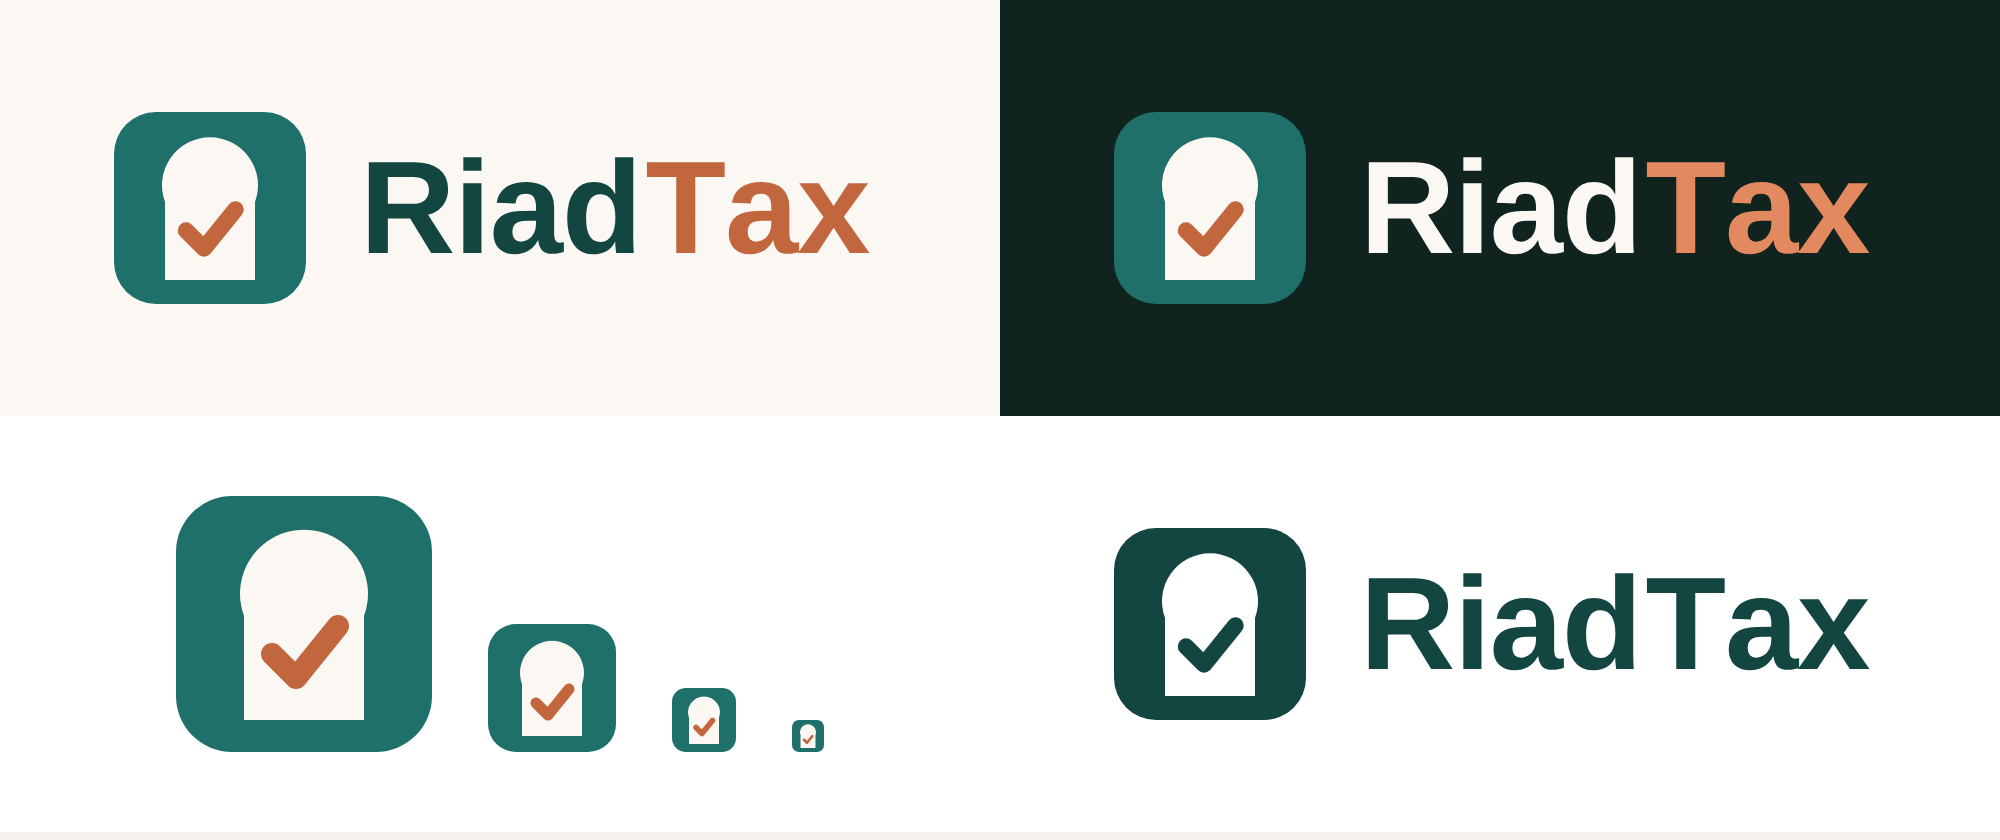
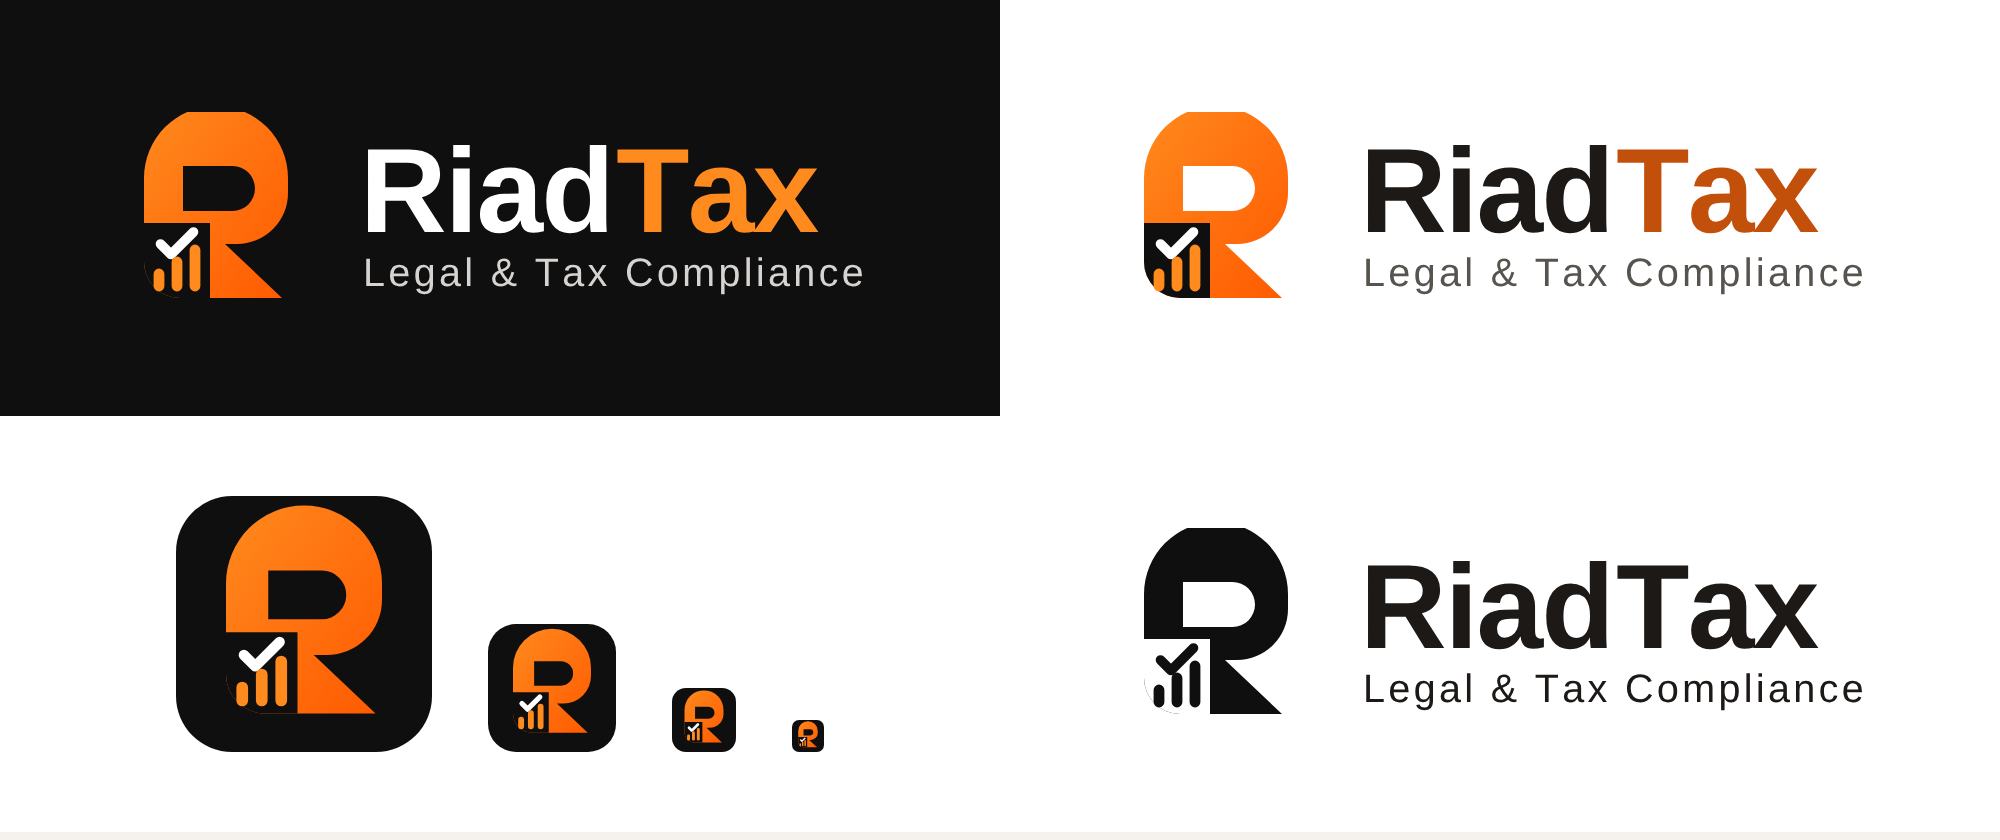
Brand: RiadTax identity (orange R-door mark, palette, name across app, emails and docs)
- brand/: regenerate the logo kit from the reference (orange gradient mark on dark,
  white/orange wordmark, 'Legal & Tax Compliance' tagline), light/dark/mono lockups,
  icon and PNG exports; README documents colours and usage
- web: orange palette tokens, inline Logo component in the auth header and app
  sidebar, favicon/app icons in public/, page titles and metadata
- name: appName in fr/en messages, invitation emails, MAIL_FROM default, README,
  CLAUDE.md and Phase 2 plan now say RiadTax

Internal identifiers (cookie names, CSRF header value, package names, DB names)
are unchanged.

Claude-Session: https://claude.ai/code/session_01LwjNavFWHvPo127HCENtBX

diff --git a/apps/web/components/logo.tsx b/apps/web/components/logo.tsx
@@ -1,0 +1,38 @@
+import { useId } from 'react';
+
+/**
+ * RiadTax mark and wordmark, inline so it follows the brand palette without an image request.
+ * Source of truth for the shapes: brand/generate.py — keep both in sync.
+ */
+export function Logo({ tone = 'light', size = 32, wordmark = true, className }: { tone?: 'light' | 'dark'; size?: number; wordmark?: boolean; className?: string }) {
+  const id = useId();
+  const onDark = tone === 'dark';
+  const riad = onDark ? '#ffffff' : '#1c1917';
+  const tax = onDark ? '#ff8a1e' : '#c2500a';
+  return (
+    <span className={`inline-flex items-center gap-2 ${className ?? ''}`}>
+      <svg width={size} height={size} viewBox="0 0 64 64" aria-hidden="true" focusable="false">
+        <defs>
+          <linearGradient id={id} x1="0" y1="0" x2="1" y2="1">
+            <stop offset="0" stopColor="#ff8a1e" />
+            <stop offset="1" stopColor="#ff5a00" />
+          </linearGradient>
+        </defs>
+        <path
+          d="M8 22 A24 24 0 0 1 56 22 V27 A17 17 0 0 1 39 44 H35 L54 62 H20 A12 12 0 0 1 8 50 Z M21 18 V33 H37.5 A7.5 7.5 0 0 0 37.5 18 Z"
+          fill={`url(#${id})`}
+          fillRule="evenodd"
+        />
+        <path d="M8 50 V37 H30 V62 H20 A12 12 0 0 1 8 50 Z" fill={onDark ? '#0f0f10' : '#1c1917'} />
+        <path d="M13.5 44 L17 47.5 L24.5 40" fill="none" stroke="#ffffff" strokeWidth="3.2" strokeLinecap="round" strokeLinejoin="round" />
+        <path d="M13 58 V54 M19 58 V50 M25 58 V46" fill="none" stroke="#ff8a1e" strokeWidth="3.6" strokeLinecap="round" />
+      </svg>
+      {wordmark && (
+        <span className="text-lg font-bold leading-none tracking-tight" style={{ color: riad }}>
+          Riad
+          <span style={{ color: tax }}>Tax</span>
+        </span>
+      )}
+    </span>
+  );
+}

diff --git a/apps/web/components/app-shell.tsx b/apps/web/components/app-shell.tsx
@@ -6,6 +6,7 @@ import { usePathname } from 'next/navigation';
 import type { ReactNode } from 'react';
 import { SessionProvider, useSession } from '../lib/session';
 import { LocaleSwitch } from './locale-switch';
+import { Logo } from './logo';
 
 function Loading() {
   const t = useTranslations('common');
@@ -37,7 +38,9 @@ function Frame({ children }: { children: ReactNode }) {
       <aside className="border-b border-stone-200 bg-white md:min-h-dvh md:border-b-0 md:border-r">
         <div className="flex items-center justify-between px-4 py-3 md:block md:px-5 md:py-5">
           <div>
-            <p className="text-lg font-semibold text-brand-700">{t('common.appName')}</p>
+            <Link href="/" aria-label={t('common.appName')} className="inline-block rounded-md focus-visible:outline-2 focus-visible:outline-offset-2 focus-visible:outline-brand-600">
+              <Logo size={30} />
+            </Link>
             <p className="max-w-[12rem] truncate text-xs text-stone-500">{me.account.companyName}</p>
           </div>
           <div className="md:hidden">

diff --git a/apps/web/app/(auth)/layout.tsx b/apps/web/app/(auth)/layout.tsx
@@ -1,6 +1,7 @@
 import type { ReactNode } from 'react';
 import { getTranslations } from 'next-intl/server';
 import { LocaleSwitch } from '../../components/locale-switch';
+import { Logo } from '../../components/logo';
 
 export default async function AuthLayout({ children }: { children: ReactNode }) {
   const t = await getTranslations('common');
@@ -8,8 +9,9 @@ export default async function AuthLayout({ children }: { children: ReactNode }) 
     <main className="mx-auto flex min-h-dvh w-full max-w-md flex-col px-4 py-6">
       <div className="mb-8 flex items-center justify-between">
         <div>
-          <p className="text-xl font-semibold text-brand-700">{t('appName')}</p>
-          <p className="text-sm text-stone-500">{t('tagline')}</p>
+          <Logo size={36} />
+          <span className="sr-only">{t('appName')}</span>
+          <p className="mt-1 text-sm text-stone-500">{t('tagline')}</p>
         </div>
         <LocaleSwitch />
       </div>

diff --git a/apps/api/src/invitations/invitations.service.ts b/apps/api/src/invitations/invitations.service.ts
@@ -135,8 +135,8 @@ export class InvitationsService {
     return {
       subject: `Invitation — ${companyName}`,
       text:
-        `${companyName} vous invite à rejoindre Dari en tant que ${label.fr}.\nPour accepter et choisir votre mot de passe :\n\n${link}\n\nCe lien expire dans ${days} jours.\n\n` +
-        `${companyName} invited you to join Dari as ${label.en}.\nTo accept and choose your password:\n\n${link}\n\nThis link expires in ${days} days.`,
+        `${companyName} vous invite à rejoindre RiadTax en tant que ${label.fr}.\nPour accepter et choisir votre mot de passe :\n\n${link}\n\nCe lien expire dans ${days} jours.\n\n` +
+        `${companyName} invited you to join RiadTax as ${label.en}.\nTo accept and choose your password:\n\n${link}\n\nThis link expires in ${days} days.`,
     };
   }
 }

diff --git a/apps/api/src/mail/mail.service.spec.ts b/apps/api/src/mail/mail.service.spec.ts
@@ -5,10 +5,10 @@ import { MailDriver } from './mail.types';
 describe('MailService', () => {
   it('sends through the driver with the configured sender', async () => {
     const driver: MailDriver = { send: jest.fn().mockResolvedValue(undefined) };
-    const service = new MailService(driver, { MAIL_FROM: 'Dari <no-reply@dari.test>' } as AppConfig);
+    const service = new MailService(driver, { MAIL_FROM: 'RiadTax <no-reply@riadtax.test>' } as AppConfig);
 
     await service.send({ to: 'a@b.test', subject: 'Hi', text: 'Body' });
 
-    expect(driver.send).toHaveBeenCalledWith({ to: 'a@b.test', subject: 'Hi', text: 'Body', from: 'Dari <no-reply@dari.test>' });
+    expect(driver.send).toHaveBeenCalledWith({ to: 'a@b.test', subject: 'Hi', text: 'Body', from: 'RiadTax <no-reply@riadtax.test>' });
   });
 });

diff --git a/apps/web/app/layout.tsx b/apps/web/app/layout.tsx
@@ -3,7 +3,11 @@ import { NextIntlClientProvider } from 'next-intl';
 import { getLocale } from 'next-intl/server';
 import './globals.css';
 
-export const metadata = { title: 'Dari', description: 'Short-term rental compliance and tax — Morocco' };
+export const metadata = {
+  title: { default: 'RiadTax', template: '%s · RiadTax' },
+  description: 'Legal & tax compliance for short-term rentals — Morocco',
+  icons: { icon: [{ url: '/icon.svg', type: 'image/svg+xml' }, { url: '/favicon.ico', sizes: '48x48' }], apple: '/apple-icon.png' },
+};
 
 export default async function RootLayout({ children }: { children: ReactNode }) {
   const locale = await getLocale();

diff --git a/apps/api/src/config/env.ts b/apps/api/src/config/env.ts
@@ -27,7 +27,7 @@ const envSchema = z
     /** console / file are development and test drivers: they expose single-use links. */
     MAIL_DRIVER: z.enum(['console', 'file']).default('console'),
     MAIL_FILE_DIR: z.string().default('.mail'),
-    MAIL_FROM: z.string().min(3).default('Dari <no-reply@localhost>'),
+    MAIL_FROM: z.string().min(3).default('RiadTax <no-reply@localhost>'),
     /** Tests turn this off so many requests from one IP do not trip the limits; refused off in production. */
     RATE_LIMIT_ENABLED: z.enum(['true', 'false']).default('true').transform((v) => v === 'true'),
     THROTTLE_TTL_MS: z.coerce.number().int().positive().default(60_000),

diff --git a/apps/web/app/globals.css b/apps/web/app/globals.css
@@ -1,12 +1,14 @@
 @import "tailwindcss";
 
 @theme {
-  --color-brand-50: #eef7f6;
-  --color-brand-100: #d5ecea;
-  --color-brand-600: #1f6f6a;
-  --color-brand-700: #185955;
-  --color-brand-800: #134541;
-  --color-clay-500: #c2663d;
+  /* RiadTax palette — see brand/README.md */
+  --color-brand-50: #fff5eb;
+  --color-brand-100: #ffe3c4;
+  --color-brand-500: #ff8a1e;
+  --color-brand-600: #c2500a;
+  --color-brand-700: #9a3c06;
+  --color-brand-800: #7c3006;
+  --color-night: #0f0f10;
   --font-sans: ui-sans-serif, system-ui, -apple-system, "Segoe UI", Roboto, "Helvetica Neue", Arial, sans-serif;
 }
 

diff --git a/brand/generate.py b/brand/generate.py
@@ -1,72 +1,86 @@
 """Generates the RiadTax logo files. Run: python3 generate.py (needs fonttools).
 
-Concept: a Moroccan horseshoe arch (the riad door) holding a check mark: "your property is in order".
-The wordmark is converted to outlines (Liberation Sans Bold, SIL Open Font License) so it renders
-the same everywhere, without depending on installed fonts.
+Concept: an orange "R" shaped like a riad door (horseshoe arch on top, shield base) that holds a check
+mark and three rising bars: "your property is in order, and the numbers add up".
+Wordmark: "Riad" white (or near-black on light backgrounds) + "Tax" orange, tagline "Legal & Tax Compliance".
+The text is converted to outlines (Liberation Sans Bold, SIL Open Font License) so it renders the same
+everywhere, without depending on installed fonts.
 """
 from fontTools.ttLib import TTFont
 from fontTools.pens.svgPathPen import SVGPathPen
 from fontTools.pens.transformPen import TransformPen
 
-TEAL = '#1f6f6a'      # brand-600 in the web app
-TEAL_DARK = '#134541' # brand-800
-CLAY = '#c2663d'      # clay-500
-CLAY_LIGHT = '#e3895f'
-CREAM = '#fbf7f2'
-NIGHT = '#10231f'
+ORANGE = '#ff8a1e'       # logo orange (brand-500 in the web app)
+ORANGE_DEEP = '#ff5a00'  # gradient end
+ORANGE_DARK = '#c2500a'  # brand-600: buttons, links (4.7:1 on white)
+NIGHT = '#0f0f10'        # dark background / wordmark on light
+INK = '#1c1917'          # stone-900 in the web app
+WHITE = '#ffffff'
 
-FONT = TTFont('/usr/share/fonts/truetype/liberation/LiberationSans-Bold.ttf')
-GLYPHS = FONT.getGlyphSet()
-CMAP = FONT.getBestCmap()
-UPM = FONT['head'].unitsPerEm
-KERN = None
+BOLD = TTFont('/usr/share/fonts/truetype/liberation/LiberationSans-Bold.ttf')
+REG = TTFont('/usr/share/fonts/truetype/liberation/LiberationSans-Regular.ttf')
 
 
-def text_path(text: str, x: float, baseline: float, size: float, tracking: float = 0):
+def text_path(text: str, x: float, baseline: float, size: float, tracking: float = 0, font=BOLD):
     """SVG path data for `text`, and the x where it ends."""
-    scale = size / UPM
+    glyphs, cmap, upm = font.getGlyphSet(), font.getBestCmap(), font['head'].unitsPerEm
+    scale = size / upm
     parts = []
     for ch in text:
-        name = CMAP[ord(ch)]
-        pen = SVGPathPen(GLYPHS)
-        GLYPHS[name].draw(TransformPen(pen, (scale, 0, 0, -scale, x, baseline)))
+        name = cmap[ord(ch)]
+        pen = SVGPathPen(glyphs)
+        glyphs[name].draw(TransformPen(pen, (scale, 0, 0, -scale, x, baseline)))
         parts.append(pen.getCommands())
-        x += GLYPHS[name].width * scale + tracking
+        x += glyphs[name].width * scale + tracking
     return ' '.join(parts), x - tracking
 
 
-def icon(x=0, y=0, s=64, bg=TEAL, door=CREAM, check=CLAY):
-    """64-unit icon: rounded tile, horseshoe-arch door, check mark."""
+GRADIENT = f'''<linearGradient id="rt-g" x1="0" y1="0" x2="1" y2="1">
+      <stop offset="0" stop-color="{ORANGE}"/>
+      <stop offset="1" stop-color="{ORANGE_DEEP}"/>
+    </linearGradient>'''
+
+
+def mark(x=0, y=0, s=64, fill='url(#rt-g)', panel=NIGHT, check=WHITE, bars=ORANGE):
+    """64-unit mark: an R-shaped door/shield holding a check mark and three bars."""
     k = s / 64
     return f'''<g transform="translate({x} {y}) scale({k})">
-    <rect width="64" height="64" rx="14" fill="{bg}"/>
-    <path d="M17 56 V30 A16 16 0 1 1 47 30 V56 Z" fill="{door}"/>
-    <path d="M24 39.5 L30 45.5 L40.5 32.5" fill="none" stroke="{check}" stroke-width="5.5" stroke-linecap="round" stroke-linejoin="round"/>
+    <path d="M8 22 A24 24 0 0 1 56 22 V27 A17 17 0 0 1 39 44 H35 L54 62 H20 A12 12 0 0 1 8 50 Z M21 18 V33 H37.5 A7.5 7.5 0 0 0 37.5 18 Z" fill="{fill}" fill-rule="evenodd"/>
+    <path d="M8 50 V37 H30 V62 H20 A12 12 0 0 1 8 50 Z" fill="{panel}"/>
+    <path d="M13.5 44 L17 47.5 L24.5 40" fill="none" stroke="{check}" stroke-width="3.2" stroke-linecap="round" stroke-linejoin="round"/>
+    <path d="M13 58 V54 M19 58 V50 M25 58 V46" fill="none" stroke="{bars}" stroke-width="3.6" stroke-linecap="round"/>
   </g>'''
 
 
-def svg(w, h, body, bg=None, title='RiadTax'):
+def svg(w, h, body, bg=None, title='RiadTax', defs=GRADIENT):
     rect = f'<rect width="{w}" height="{h}" fill="{bg}"/>' if bg else ''
     return f'''<svg xmlns="http://www.w3.org/2000/svg" viewBox="0 0 {w} {h}" width="{w}" height="{h}" role="img" aria-label="{title}">
   <title>{title}</title>
+  <defs>
+    {defs}
+  </defs>
   {rect}{body}
 </svg>
 '''
 
 
-def lockup(word_riad, word_tax, tile=TEAL, door=CREAM, check=CLAY, bg=None, name='logo'):
-    size, baseline, gap = 44, 47, 18
-    riad, end = text_path('Riad', 64 + gap, baseline, size, tracking=-0.4)
-    tax, end = text_path('Tax', end + 1, baseline, size, tracking=-0.4)
-    w = round(end + 6)
-    body = icon(bg=tile, door=door, check=check) + f'\n  <path d="{riad}" fill="{word_riad}"/>\n  <path d="{tax}" fill="{word_tax}"/>'
+def lockup(riad_fill, tax_fill, tagline_fill, name, bg=None, **mark_kw):
+    size, baseline, gap = 40, 40, 16
+    riad, end = text_path('Riad', 64 + gap, baseline, size, tracking=-0.6)
+    tax, end = text_path('Tax', end + 0.5, baseline, size, tracking=-0.6)
+    tag, tag_end = text_path('Legal & Tax Compliance', 64 + gap + 1, 58, 13.2, tracking=1.1, font=REG)
+    w = round(max(end, tag_end) + 6)
+    body = mark(**mark_kw) + f'\n  <path d="{riad}" fill="{riad_fill}"/>\n  <path d="{tax}" fill="{tax_fill}"/>\n  <path d="{tag}" fill="{tagline_fill}"/>'
     open(f'riadtax-{name}.svg', 'w').write(svg(w, 64, body, bg))
     return w
 
 
-open('riadtax-icon.svg', 'w').write(svg(64, 64, icon()))
-open('riadtax-icon-mono.svg', 'w').write(svg(64, 64, icon(bg=TEAL_DARK, door='#ffffff', check=TEAL_DARK)))
-lockup(TEAL_DARK, CLAY, name='logo')
-lockup(CREAM, CLAY_LIGHT, tile=TEAL, bg=None, name='logo-dark')
-lockup(TEAL_DARK, TEAL_DARK, tile=TEAL_DARK, door='#ffffff', check=TEAL_DARK, name='logo-mono')
+# Mark on its own: app icon, favicon, avatars (dark tile so the orange reads on any surface).
+tile = '<rect width="64" height="64" rx="14" fill="%s"/>' % NIGHT
+open('riadtax-icon.svg', 'w').write(svg(64, 64, tile + mark(x=6, y=4, s=52)))
+open('riadtax-icon-mono.svg', 'w').write(svg(64, 64, mark(fill=NIGHT, panel=WHITE, check=NIGHT, bars=NIGHT), defs=''))
+
+lockup(WHITE, ORANGE, '#d6d3d1', name='logo-dark', bg=None)
+lockup(INK, ORANGE_DARK, '#57534e', name='logo', bg=None)
+lockup(INK, INK, INK, name='logo-mono', fill=NIGHT, panel=WHITE, check=NIGHT, bars=NIGHT)
 print('ok')

diff --git a/brand/README.md b/brand/README.md
@@ -1,24 +1,26 @@
 # RiadTax — logo
 
-Concept: a Moroccan horseshoe arch (the riad door) holding a check mark, meaning "the property is in order". The colours match the web app's theme.
+Concept: an orange "R" shaped like a riad door (horseshoe arch, shield base) holding a check mark and three rising bars: "the property is in order, and the numbers add up". Wordmark: **Riad** in white (near-black on light backgrounds), **Tax** in orange, tagline "Legal & Tax Compliance".
 
 | File | Use |
 |---|---|
-| `riadtax-logo.svg` / `riadtax-logo-1290.png` | Main logo, on light backgrounds |
-| `riadtax-logo-dark.svg` / `riadtax-logo-dark-1290.png` | On dark backgrounds |
+| `riadtax-logo-dark.svg` / `riadtax-logo-dark-1290.png` | Main logo, on dark backgrounds (reference version) |
+| `riadtax-logo.svg` / `riadtax-logo-1290.png` | On light backgrounds |
 | `riadtax-logo-mono.svg` | One colour (stamps, fax, black-and-white print) |
 | `riadtax-icon.svg` / `riadtax-icon-512.png` | App icon, favicon, WhatsApp/social avatar |
-| `riadtax-icon-mono.svg` | One-colour icon |
+| `riadtax-icon-mono.svg` | One-colour mark, no tile |
 | `preview.png` | Overview sheet |
 
-| Colour | Hex |
-|---|---|
-| Teal (tile) | `#1f6f6a` |
-| Dark teal (wordmark) | `#134541` |
-| Terracotta (check, "Tax") | `#c2663d` (`#e3895f` on dark) |
-| Cream (door) | `#fbf7f2` |
+| Colour | Hex | Web app token |
+|---|---|---|
+| Orange (mark, "Tax" on dark) | `#ff8a1e` → `#ff5a00` gradient | `brand-500` |
+| Dark orange (buttons, links, "Tax" on light) | `#c2500a` | `brand-600` |
+| Night (background, tile) | `#0f0f10` | `night` |
+| Ink (wordmark on light) | `#1c1917` | `stone-900` |
+| White | `#ffffff` | |
 
-- Keep clear space around the logo equal to half the icon height; do not stretch, recolour or add effects.
-- Minimum size: icon 16 px; full logo 120 px wide.
-- The wordmark is converted to outlines from Liberation Sans Bold (SIL Open Font License), so no font is needed.
+- Keep clear space around the logo equal to half the mark height; do not stretch, recolour or add effects.
+- Minimum size: mark 16 px; full logo 140 px wide.
+- Text is converted to outlines from Liberation Sans (SIL Open Font License), so no font is needed.
+- The web app embeds the same mark in `apps/web/components/logo.tsx`; keep both in sync when the mark changes.
 - Regenerate: `pip install fonttools && python3 generate.py`, then `PW_CHROMIUM_PATH=/opt/pw-browsers/chromium node render.mjs` for PNGs.

diff --git a/docs/phase-2.md b/docs/phase-2.md
@@ -27,7 +27,7 @@ Part of the [roadmap](../README.md). Built solo with Claude: each numbered step 
 - iCal feeds per property and platform (Airbnb, Booking.com, direct/other): add, edit, remove, last sync status
 - Background job runner (BullMQ + Redis) and scheduled sync every 1–4 h, plus "sync now"
 - Event classification: booking vs owner block, with a **review list** and manual override
-- Historical import since 1 January: Dari CSV template + column mapper + preview with error rows (revenue columns stored for Phase 5)
+- Historical import since 1 January: RiadTax CSV template + column mapper + preview with error rows (revenue columns stored for Phase 5)
 - Day counter per unlicensed property and calendar year; projected breach date from future bookings
 - Alerts at 90 (amber) and 110 (red) nights, once per threshold per property per year; email to Owner/Manager; dashboard feed
 - Screens: onboarding iCal step (skippable), import, dashboard, property detail (screens 4–7 of the Tech Spec)
@@ -37,7 +37,7 @@ Part of the [roadmap](../README.md). Built solo with Claude: each numbered step 
 - Revenue reports and tax → Phase 5 (revenue fields are imported and stored now, not computed)
 - WhatsApp alerts → Phase 6 (email only here)
 - Notifications centre with read/unread → fast-follow
-- Parsing platform-specific earnings exports (Airbnb / Booking CSV formats) → after the pilot; the Dari template comes first
+- Parsing platform-specific earnings exports (Airbnb / Booking CSV formats) → after the pilot; the RiadTax template comes first
 
 ---
 
@@ -82,7 +82,7 @@ Part of the [roadmap](../README.md). Built solo with Claude: each numbered step 
 | `/bookings/:id/classification` | PATCH | `booking:write` | Confirm booking / owner block; audited |
 | `/properties/:id/imports/preview` | POST | `booking:write` | CSV upload (≤ 1 MB), mapping → preview rows with errors, nothing saved |
 | `/properties/:id/imports` | POST | `booking:write` | Commit a previewed import; idempotent by confirmation code or dates |
-| `/imports/template.csv` | GET | `booking:write` | Dari CSV template |
+| `/imports/template.csv` | GET | `booking:write` | RiadTax CSV template |
 | `/dashboard` | GET | `booking:read` | Property cards + counters + open alerts for the account |
 | `/alerts` / `/alerts/:id` | GET / PATCH | `booking:read` | Feed; resolve (Owner/Manager) |
 

diff --git a/README.md b/README.md
@@ -1,8 +1,9 @@
-# Dari
+# RiadTax
 
 Morocco STR Compliance & Tax Platform — SaaS for short-term-rental managers (3–20 properties), launching in Marrakech.
 
 Sources of truth: *Business MVP Spec V3 (EN/AR)* and *Technical Spec V2*. Layout, commands and non-negotiable rules are in [`CLAUDE.md`](CLAUDE.md).
+Brand assets (logo, icon, colours): [`brand/`](brand/README.md).
 
 **Quick start:** `cp .env.example .env && docker compose up -d && npm install && npm run db:generate`
 **Checks:** `npm run lint` · `npm run typecheck` · `npm test` · `cd services/ocr && pytest`
